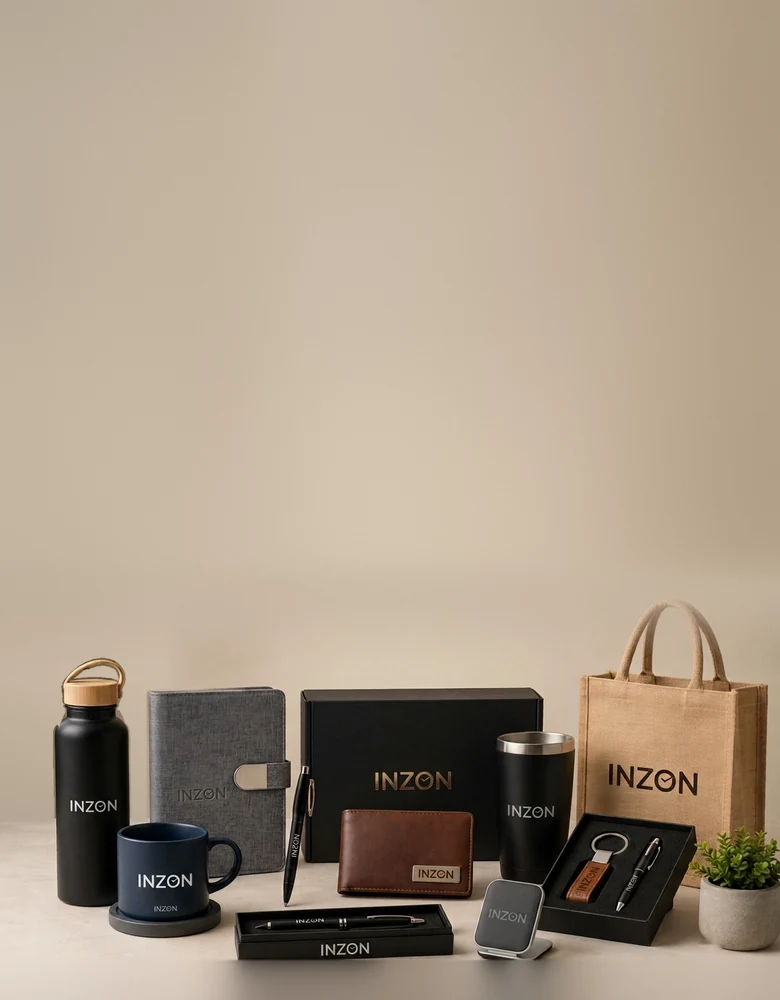
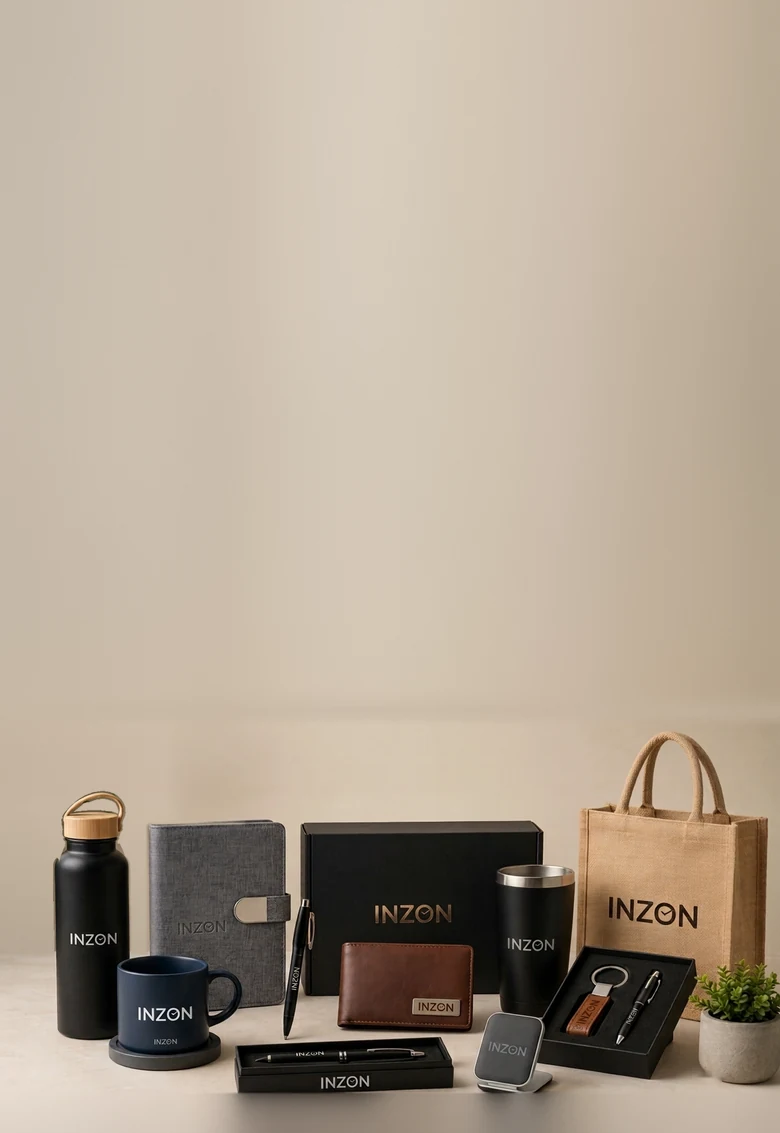
Home hero: smooth wall extension (no seam), phone image fits the screen width so products are fully in view
Claude-Session: https://claude.ai/code/session_0111k1FisZ7XKs8mzSkFkDN7

diff --git a/assets/css/styles.css b/assets/css/styles.css
@@ -600,9 +600,9 @@ tbody tr:last-child th, tbody tr:last-child td { border-bottom: 0; }
 
 /* Hero: the photo's own wall is extended to fill the whole hero, so the headline and description sit directly on the wall.
    Phones and tablets: text on the wall above the products. Desktop (1001px+): text on the wall at the left, products at the right. */
-.hero { position: relative; overflow: hidden; background: linear-gradient(90deg, #b4a79a, #ab9a87); }
+.hero { position: relative; overflow: hidden; background: linear-gradient(90deg, #c4b8a9, #b9a994); }
 .hero-bg { position: absolute; inset: 0; z-index: 0; display: block; }
-.hero-bg img { width: 100%; height: 100%; object-fit: cover; object-position: center bottom; display: block; }
+.hero-bg img { position: absolute; left: 0; bottom: 0; width: 100%; height: auto; display: block; }
 .hero .wrap { position: relative; z-index: 1; display: block; padding-top: clamp(26px, 5vw, 48px); padding-bottom: 55vw; }
 .hero-mosaic { display: none; }
 .hero-text { display: flex; flex-direction: column; align-items: center; text-align: center; }
@@ -616,8 +616,8 @@ tbody tr:last-child th, tbody tr:last-child td { border-bottom: 0; }
   .hero-text .hero-answer { font-size: 1rem; margin-top: 12px; }
 }
 @media (min-width: 1001px) {
-  .hero { min-height: clamp(540px, 50vw, 900px); display: flex; align-items: center; background: linear-gradient(90deg, #a3968b, #b2a18d); }
-  .hero-bg img { object-position: right bottom; }
+  .hero { min-height: clamp(540px, 50vw, 900px); display: flex; align-items: center; background: linear-gradient(90deg, #b8ad9f, #ab9c89); }
+  .hero-bg img { top: 0; width: 100%; height: 100%; object-fit: cover; object-position: right bottom; }
   .hero .wrap { width: 100%; padding-block: 40px 9%; }
   .hero-text { align-items: flex-start; text-align: left; max-width: min(36vw, 540px); }
   .hero-text h1 { font-size: clamp(2.4rem, 3.7vw, 3.6rem); max-width: 10.5em; }

diff --git a/index.html b/index.html
@@ -224,7 +224,7 @@
   <section class="hero" aria-labelledby="hero-title">
     <picture class="hero-bg">
       <source media="(min-width: 1001px)" type="image/webp" srcset="assets/img/hero-wall-desktop-1600.webp 1600w, assets/img/hero-wall-desktop-3200.webp 3200w" sizes="100vw" width="3200" height="1600">
-      <img src="assets/img/hero-wall-phone-780.webp" srcset="assets/img/hero-wall-phone-780.webp 780w, assets/img/hero-wall-phone-1170.webp 1170w" sizes="100vw" alt="Corporate gift set with the INZON logo on a black bottle, notebook, mug, gift box, leather wallet, tumbler, jute bag, pen box, keyring set and phone stand, on a warm beige wall" width="1170" height="1500" fetchpriority="high">
+      <img src="assets/img/hero-wall-phone-780.webp" srcset="assets/img/hero-wall-phone-780.webp 780w, assets/img/hero-wall-phone-1170.webp 1170w" sizes="100vw" alt="Corporate gift set with the INZON logo on a black bottle, notebook, mug, gift box, leather wallet, tumbler, jute bag, pen box, keyring set and phone stand, on a warm beige wall" width="1170" height="1700" fetchpriority="high">
     </picture>
     <div class="wrap">
       <div class="hero-text">
